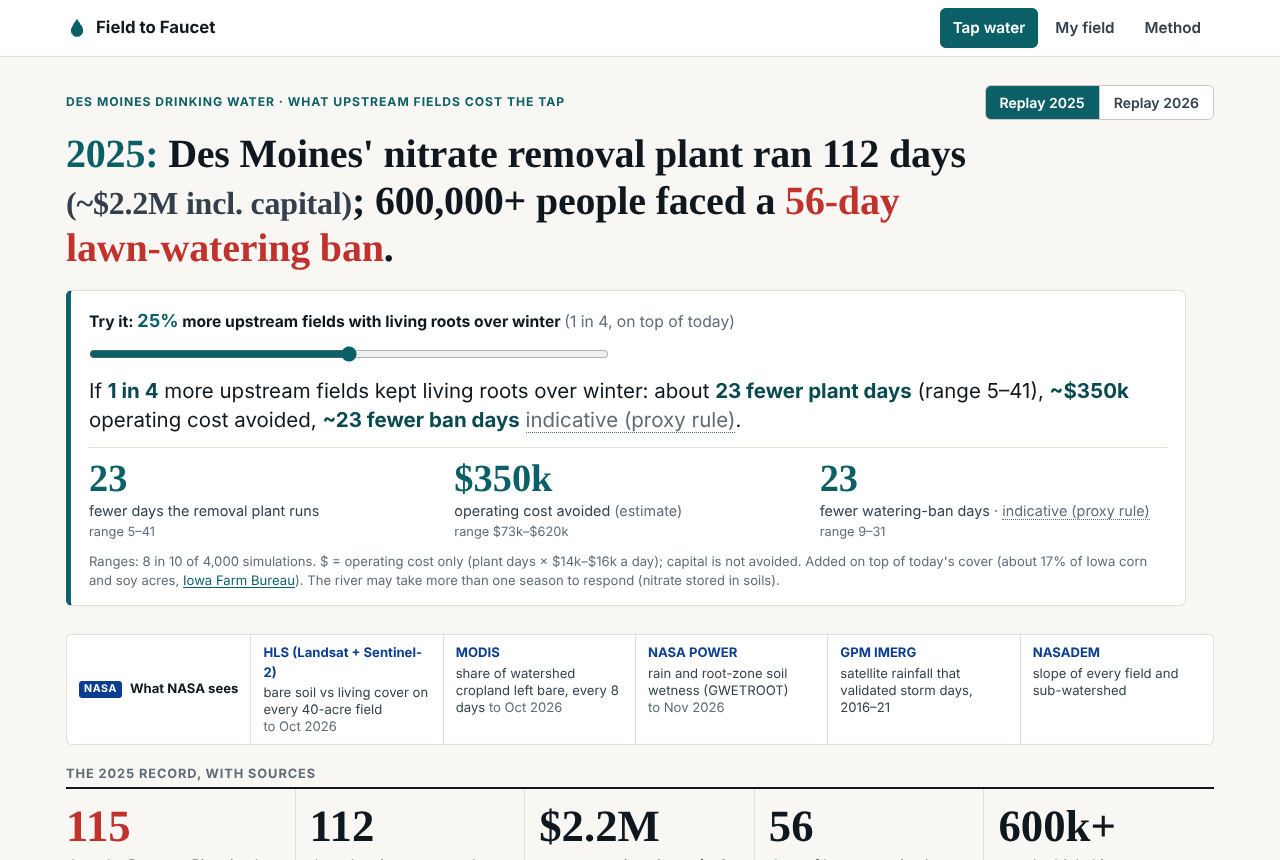
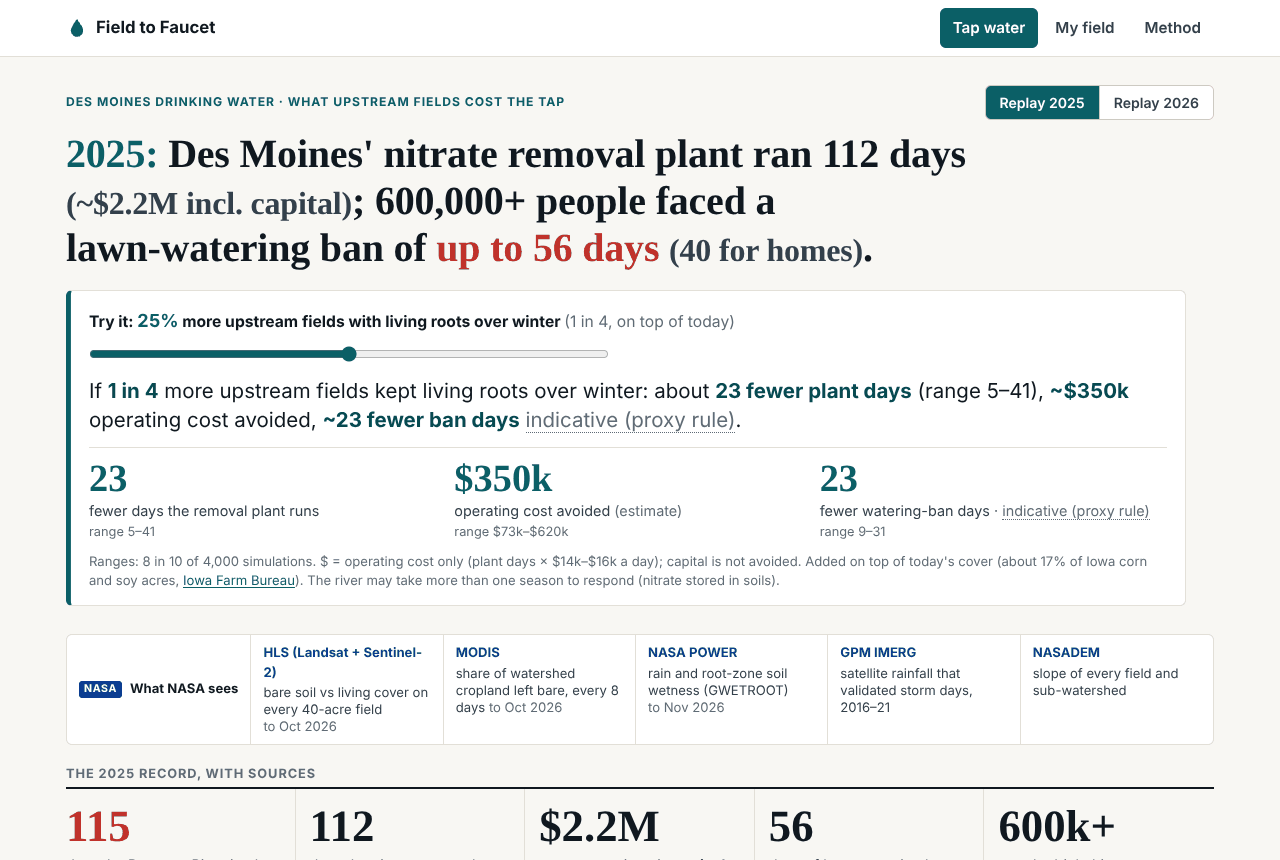
field-to-faucet: frontend integrated with real data (impact hero, replay 2025/2026, farmer mean-first cards, honest validation)
Claude-Session: https://claude.ai/code/session_01LVZuX6hd4Dk1J7r7Sr4Bx5

Changed region(s): [[0.0312, 0.2116, 0.7188, 0.3326]]

diff --git a/apps/field-to-faucet/web/js/city.js b/apps/field-to-faucet/web/js/city.js
@@ -145,9 +145,14 @@ function yearFacts(y = YEAR) {
   const est = !costF && isNum(plantDays) && cpd ? { lo: plantDays * cpd.lo, hi: plantDays * cpd.hi } : null;
   const banF = fact(`ban_days_${y}`);
   const banDays = banF?.value ?? (isNum(obs.ban_days) ? obs.ban_days : null);
+  // homes were released earlier than businesses/government: fact range lo (or observed.ban_days_homes)
+  const banHomes = isNum(obs.ban_days_homes) ? obs.ban_days_homes : isNum(banF?.range?.lo) ? banF.range.lo : null;
+  // "for businesses" only when the fact says the headline day count is the business/government one (2026);
+  // in 2025 the headline 56 days is the all-customer Stage III window (businesses: 48), so it reads "up to 56".
+  const banBiz = isNum(banDays) && new RegExp(`\\b${banDays} days for business`, "i").test(banF?.label || "");
   const people = fact("people_served");
   const peopleTxt = people ? `${fmtInt(people.value)}${/more than|over/i.test(`${people.label} ${people.quote || ""}`) ? "+" : ""}` : null;
-  return { yb, obs, th, plantF, plantDays, record, costF, omF, cpd, est, banF, banDays, people, peopleTxt };
+  return { yb, obs, th, plantF, plantDays, record, costF, omF, cpd, est, banF, banDays, banHomes, banBiz, people, peopleTxt };
 }
 
 function renderHero() {
@@ -157,7 +162,13 @@ function renderHero() {
   const costTxt = yf.costF ? `~${usd(yf.costF.value)} incl. capital` : yf.est ? `~${usdRange(yf.est.lo, yf.est.hi)} operating cost, estimate` : null;
   const parts = [];
   if (isNum(yf.plantDays)) parts.push(`Des Moines' nitrate removal plant ran ${yf.record ? "a record " : ""}<strong>${fmtInt(yf.plantDays)} days</strong>${costTxt ? ` <span class="hero-cost">(${costTxt})</span>` : ""}`);
-  if (isNum(yf.banDays)) parts.push(`<strong>${yf.peopleTxt || "central Iowa's"} people</strong> faced a <strong class="red">${fmtInt(yf.banDays)}-day lawn-watering ban</strong>`);
+  if (isNum(yf.banDays)) {
+    const who = `<strong>${yf.peopleTxt || "central Iowa's"} people</strong> faced a lawn&#8209;watering ban`;
+    const homes = isNum(yf.banHomes) && yf.banHomes < yf.banDays;
+    parts.push(!homes ? `${who} of <strong class="red">${fmtInt(yf.banDays)} days</strong>`
+      : yf.banBiz ? `${who} <span class="hero-cost">(<strong class="red">${fmtInt(yf.banHomes)} days for homes</strong>, ${fmtInt(yf.banDays)} for businesses)</span>`
+      : `${who} of <strong class="red">up to ${fmtInt(yf.banDays)} days</strong> <span class="hero-cost">(${fmtInt(yf.banHomes)} for homes)</span>`);
+  }
   h.innerHTML = `<span class="hero-year">${YEAR}:</span> ${parts.join("; ")}.`;
 }
 
@@ -218,12 +229,12 @@ function renderKpis() {
     const src = (th.sources || []).find((s) => /cost_per_day|om_cost/.test(s.id));
     costS = src ? link(src.url, "CIWW cost per day") : "";
   }
-  const banHomes = isNum(obs.ban_days_homes) ? ` (homes: ${fmtInt(obs.ban_days_homes)})` : "";
+  const banHomesTxt = isNum(yf.banHomes) && yf.banHomes < yf.banDays ? (yf.banBiz ? ` for businesses and government (homes: ${fmtInt(yf.banHomes)})` : `, all customers (homes: ${fmtInt(yf.banHomes)})`) : "";
   const tiles = [
     { v: fmtInt(obs.days_over10), red: true, l: `days the Raccoon River intake was above the 10 mg/L limit${isNum(measured) ? ` (of ${fmtInt(measured)} measured)` : ""}`, s: srcLine(link(nwisUrl(site), `USGS ${site}`), chipSc) },
     { v: fmtInt(yf.plantDays), l: `days the nitrate-removal plant ran${yf.record ? " — a record" : ""}`, s: srcLine(yf.plantF ? link(yf.plantF.url, yf.plantF.source || "source") : "", yf.plantF ? chipF : chipSc) },
     { v: costV, l: costL, s: srcLine(costS, chipF) },
-    { v: fmtInt(yf.banDays), l: `days of lawn-watering ban${banHomes}`, s: srcLine(yf.banF ? link(yf.banF.url, `${yf.banF.source || "source"}: ban dates`) : "", chipF) },
+    { v: fmtInt(yf.banDays), l: `days of lawn-watering ban${banHomesTxt}`, s: srcLine(yf.banF ? link(yf.banF.url, `${yf.banF.source || "source"}: ban dates`) : "", chipF) },
     { v: yf.people ? (yf.people.value >= 1e5 ? `${Math.round(yf.people.value / 1000)}k${yf.peopleTxt?.endsWith("+") ? "+" : ""}` : fmtInt(yf.people.value)) : "–", l: "people drink this water", s: srcLine(yf.people ? link(yf.people.url, yf.people.source || "source") : "", chipF) },
   ];
   document.getElementById("city-kpis").innerHTML = tiles.map((t) => `<div class="kpi"><div class="kpi-value ${t.red ? "red" : ""}">${t.v}</div><div class="kpi-label">${t.l}</div><div class="kpi-src">${t.s || ""}</div></div>`).join("");

diff --git a/apps/field-to-faucet/notes/frontend.md b/apps/field-to-faucet/notes/frontend.md
@@ -1,102 +1,73 @@
 # Module: frontend (web/)
 
-A static app in `web/`, with plain ES modules and no build step. Libraries are vendored and pinned in `web/vendor/`: MapLibre GL JS 4.7.1 and Chart.js 4.4.6. They came from the npm tarballs, with their LICENSE files kept and the `sourceMappingURL` comments removed. The page makes no CDN calls and loads no external tiles. Maps are drawn only from our own GeoJSON on a plain light background.
+A static app in `web/`, with plain ES modules and no build step. Libraries are vendored and pinned in `web/vendor/`: MapLibre GL JS 4.7.1 and Chart.js 4.4.6 (npm tarballs, LICENSE kept, `sourceMappingURL` removed). No CDN calls, no external tiles: maps are drawn only from our own GeoJSON.
 
 ## Run
 ```
 cd apps/field-to-faucet/web && python3 -m http.server 8731      # open http://localhost:8731/
-python3 -I mock/_make_mock.py                                   # (re)write web/mock/* (deterministic, seed 20261114)
-node qa/run_qa.cjs http://localhost:8731/                       # Playwright QA + screenshots into web/qa/
+node qa/run_qa.cjs http://localhost:8731/ [--shots-dir=DIR]     # Playwright QA + screenshots into web/qa/
 ```
-Routes: `#city` (landing), `#farmer`, `#farmer/<field_id>` (deep link to a field), `#method`.
+Routes: `#city` (landing), `#farmer`, `#farmer/<field_id>` (deep link), `#method`.
+
+## Status: all data real
+Every file in `web/data/` is real (written by `model/m08_export_web.py`). The mock fallback (`web/mock/`) is still in the loader but unused: QA asserts that no MOCK banner and no MOCK chip is visible on any view.
 
 ## Structure
 | File | Role |
 |---|---|
-| `index.html` | Shell: mock banner, tab bar, the three views, footer |
-| `css/app.css` | Tokens: ink/ground, one accent (deep teal `#0b5f66`), nitrate red `#c0322b`, sequential warm leak ramp `--leak-0..5`. Breakpoints at 960 and 560 px |
-| `js/main.js` | Loads data, renders the views, hash router. Maps are created lazily when their view first shows |
-| `js/data.js` | Loader, mock fallback, banner, provenance table, `facts.json` normaliser, field-detail access (single file or split) |
-| `js/city.js` | KPI strip, 2025 replay (slider, deltas, chart), river chart, hotspot map and list, 14-day outlook |
-| `js/farmer.js` | Field map, field facts, leak calendar and its plain-language sentence, NDVI, priorities, strategy cards and ranking |
-| `js/method.js` | Validation tables, sources (NASA tag), caveats, file provenance |
-| `js/charts.js` | Chart.js on a linear ms time axis (no date adapter). Draws split shading, the EPA-limit line, a crosshair, and an 8-in-10 band in the tooltip. Nulls are drawn as gaps (`spanGaps:false`) |
-| `js/map.js` | Blank-style MapLibre map, HTML-marker labels (no glyph server), context layers, quantile `step` colouring, ramp legend |
-| `js/util.js` | Formatting, natural frequencies, small DOM helpers |
-| `mock/_make_mock.py` | Writes every mock file and `mock/_manifest.json` |
-| `qa/run_qa.cjs` | Playwright QA at 1280 and 375 px |
+| `index.html` | Shell: mock banner, tab bar, three views, footer |
+| `css/app.css` | Tokens: ink/ground, one accent (teal `#0b5f66`), nitrate red `#c0322b`, warm sequential leak ramp `--leak-0..5`, blue sequential driver ramp. Breakpoints 960 / 560 px |
+| `js/main.js` | Creates the store, renders views, hash router; re-renders banner + provenance after each lazy group loads |
+| `js/data.js` | Grouped/lazy loader, mock fallback, banner, provenance, `factsMap` (resolves `aliases`), `getFieldDetail`, `nasaStrip` |
+| `js/city.js` | Impact hero + year switch, KPI strip, replay chart, river chart + honest line, hotspot map, outlook |
+| `js/farmer.js` | Field map, field facts, leak calendar, NDVI, priorities, strategy cards and ranking |
+| `js/method.js` | Honest miss, validation tables, outlook skill, proxy-rule test, sources, caveats, provenance |
+| `js/charts.js` | Chart.js on a linear ms time axis; split shading, threshold line, crosshair, band tooltip (`bandLabel`). Nulls are gaps |
+| `js/map.js` | Blank-style MapLibre, HTML-marker labels, quantile `step` colouring, ramp legend |
+| `js/util.js` | Formatting (`meanBand`, `shareAsFreq`, `fmtLbAc`, `linkify`), natural frequencies, segmented control |
 
-## How the data maps to the UI
-- **KPI strip** (replay year `scenarios.replay.year`, 2025):
-  - days above 10: `scenarios.by_year[Y].observed.days_over10`, linked to the USGS site page.
-  - plant days: `observed.plant_days`, or else `facts.plant_days_<Y>`.
-  - $ cost: `facts.plant_cost_<Y>_usd`, or else `plant_days × thresholds.cost_per_plant_day{lo,hi}`, shown as a range.
-  - ban days: `observed.ban_days`, or else `facts.ban_days_<Y>`.
-  - people served: `facts.people_served`.
-  - Each tile links its source (`facts[*].url` / `thresholds.source`).
-- **Replay**:
-  - The slider steps through `scenarios.adoption_levels` and opens at 25%.
-  - The chart shows `replay.obs`, `replay.base_p50` and `replay.by_level[x]`. The area between the base and scenario lines is shaded as "nitrate kept out of the river".
-  - Deltas use `levels[x].avoided.<metric>{p50,lo,hi}` if the exporter adds it. Otherwise they are `levels[0].p50 − levels[x].{p50,hi,lo}`, clamped at 0.
-  - Metrics: days_over10, plant_days, cost_usd, ban_days, plus lbN_kept as a sentence.
-  - Natural-frequency sentence: observed days minus the delta, over measured days, e.g. "about 1 day in 7".
-- **River chart**: `river_series.sites[site].{dates,obs,p10,p50,p90}`.
-  - Toggles: site (Raccoon / Des Moines) and range (all / test 2023+ / 2025).
-  - `split` drives the shaded "Training / Out-of-time test / Live" periods. `mcl` draws the red dashed line.
-- **Hotspot map**: `huc12.geojson`, coloured by `share_of_basin_leak` or `leak_index` in 6 equal-count classes.
-  - Popup: name, HUC-12, basin, row_crop_share, poorly_drained_share, bare_days_wet, share_of_basin_leak, rank "of N in basin".
-  - The dashed outline is `in_focus`.
-  - The side list shows the Raccoon top 6 by `rank`, and their area share against their leak share.
-  - Context layers: `basins`, `rivers` (width by `order`), `counties` (optional), `sites`, and `places`. Town labels appear only at zoom ≥ 7.8. `kind: "intake"` places are skipped because sites draw them.
-- **Outlook**: the fan is `outlook.{dates,p10,p50,p90}`, anchored at `last_obs` and preceded by 30 days of measured values from `river_series`.
-  - `prob_over10` is a 14-cell strip. The headline is the peak probability, phrased as "N in 10".
-  - `drivers.*_pctile` become plain-language comparisons with past years.
-  - `text` is shown verbatim.
-- **Farmer map**: `fields.geojson` squares, coloured by `leak_pctile` in fifths. The focus HUC-12 outlines come from the HUC-12s the fields fall in.
-  - "Pick a sample field" cycles through 5 fields from the top tenth by leak percentile, preferring poorly drained ones.
-- **Field panel**: `field_detail[id]`, loaded from a single file or from `field_detail/<huc12>.json`.
-  - Facts: `leak.lbN_ac_yr{p10,p50,p90}`, drainage, slope, crop_2025, crop sequence chips, and `cover_years`.
-  - Leak calendar: the rows are `bare_frac`, `rain_mm`, `storm_days`, `wetness`, and `leak_risk`, each shaded within its own row.
-  - The riskiest 3-month window (by summed `leak_risk`) is outlined, and the sentence is built from it: average bare share, the window's share of storm days, and whether peak wetness falls inside it.
-  - NDVI comes from `ndvi_recent`, with a 0.30 living-cover line.
-- **Strategy cards**: text from `strategies.json`, field numbers from `field_detail.strategies[S].{lbN_kept_ac,fert_value_usd_ac}`.
-  - If the field numbers are missing, lb kept is estimated as `n_loss_reduction × field leak`, and the card says so.
-  - Each card shows why, evidence (trials and `satellite_evidence`), lb N kept with range and an interval bar on a shared axis, fertilizer value, cost, yield risk, soil health, gaps, local-review risks, and who pays (with links).
-- **Ranking** (shown under "How we rank"): each goal is min-max scaled to 0–1 across S0..S3. Score = Σ(weight × goal score) / Σ weights, with weights 0–3 from the sliders (default 2, 2, 1, 1). The goals:
-  - nitrogen kept: lbN_kept p50.
-  - yield safety: `yield_risk` level, low 1 / medium 0.5 / high 0.
-  - soil: `soil_score`, or else the count of `soil_health` items.
-  - low net cost: −(cost midpoint − fertilizer value p50).
-- **Method**: `validation.json`, `meta.sources` (NASA badge), `meta.caveats`, and a per-file provenance table.
+## Loading (first-view weight)
+| Group | Files | When |
+|---|---|---|
+| core | meta, facts, scenarios, river_series, validation, outlook, sites (~0.83 MB) | before first render |
+| map | huc12, basins, rivers, places, counties (~0.6 MB) | right after first render (city map + hotspots) |
+| farm | fields.geojson, strategies (~0.68 MB) | only when the farmer view opens (tab, deep link or sample button) |
+| detail | field_index.json (42 KB) + field_detail/<huc12>.json (0.2–0.8 MB) | on first field click; HUC-12 from the index (fallback: the field's `huc12` prop) |
 
-## Mock fallback
-1. `data.js` reads the `python -m http.server` directory listing of `data/` and `mock/_manifest.json`, so a missing file is never requested and the console shows no 404s. On `*.github.io` there is no listing, so each `data/` file is requested directly.
-2. Each contract file loads from `data/<file>`. If it is missing, `mock/<file>` is used and the file is recorded as `mock`. A `data/` file with a top-level `"mock": true` also counts as mock.
-3. **Partial case:** when the real `huc12.geojson` has outlines but no `leak_index` (true today), the scores are taken from `mock/huc12.geojson` by huc12 id. That file is reported as "huc12.geojson (leak scores)".
-4. `field_detail` must come from the same place as `fields`. Real fields with no real detail show "not exported yet"; the panel never shows mock detail for real fields.
-5. A red sticky **"MOCK DATA — not real"** banner names every mock file. Every section that draws mock values also carries a small red `MOCK` chip. Every mock text string starts with "MOCK".
+First view (`#city`, network idle, uncompressed from `http.server`): 28 requests, ~2.96 MB, of which ~1.0 MB is vendored JS. No farmer data is fetched on the city view (QA asserts it).
 
-## Still mock (as of this build)
-`meta.json`, `river_series.json`, `validation.json`, `scenarios.json`, `outlook.json`, `fields.geojson`, `field_detail` (split, 9 HUC-12s, 1,338 fields), `strategies.json`, `facts.json`, and the HUC-12 leak scores.
+## City view (impact first)
+- **Hero h1** (replay year Y, all numbers from facts.json via aliases, never hard-coded):
+  `Y: Des Moines' nitrate removal plant ran [a record] N days (cost); 600,000+ people faced a lawn-watering ban …`
+  - cost: `plant_cost_Y_usd` → "~$2.2M incl. capital"; no fact (2026) → `plant days × thresholds.cost_per_plant_day{lo,hi}` → "~$2.8–3.1M operating cost, estimate".
+  - "a record" when plant days > `plant_days_record_prior`.
+  - ban: homes vs all from `observed.ban_days_homes` (or fact `range.lo`). If the fact label says the headline count is the business one (2026) → "(23 days for homes, 42 for businesses)"; otherwise (2025, all-customer Stage III window) → "of up to 56 days (40 for homes)".
+  - "600,000+" when the people fact says "more than".
+- **Impact card**: slider (synced with the replay slider) and the sentence "If 1 in 4 more upstream fields kept living roots over winter: about N fewer plant days (range a–b), ~$X operating cost avoided, ~M fewer ban days indicative (proxy rule)". From `levels[x].avoided.{plant_days,cost_usd,ban_days}` (p50, lo, hi). $ is labelled "operating cost avoided (estimate)". The ban label is a hover/focus/tap tooltip with `thresholds.ban_rule` and the 2026 test (`calibration.ban.test_2026`: 40 proxy vs 42 real days). Fine print: n_draws, $/day range, "capital not avoided", today's ~17% cover (fact `iowa_cover_share_pct`), legacy-N lag.
+- **Year switch**: `Replay 2025 | Replay 2026` from `scenarios.replays` ∩ `by_year`; drives hero, KPIs, replay and the river "year" range.
+- **What NASA sees** strip (also on Farmer and Method): HLS, MODIS, NASA POWER (GWETROOT), GPM IMERG, NASADEM, matched by name in `meta.sources`, with links and `data_through`.
+- **KPI strip** ("The Y record, with sources"): days > 10 (USGS link), plant days (fact link), cost ("incl. capital" with O&M/capital split; 2026 "estimate"), ban days (links the `ban_days_Y` fact), people served.
+- **Replay chart**: "Measured, today's fields" = `replays[Y].obs` (base_kind observed); "With X% more living cover" = `by_level[x]`; teal fill between = "nitrate kept out of the river"; optional checkbox shows the scenario band `by_level_lo/hi`; 10 mg/L line. If a future export has `base_kind` ≠ observed, a dashed model baseline is added. Side tiles: days > 10 avoided (Raccoon, Des Moines), t N kept, lb N kept sentence.
+- **River chart**: display model per site from `river_series.sites[s].model.model` → `display_model` (river_series or validation); legend "Model v2 (+ drought carry-over), median". Above it the honest line, built from validation numbers (mean test NSE of v1 `gbm`, 2025 `level_ratio_obs_over_model` min–max): "The weather-and-cover model explains normal years (test NSE ~0.6) but under-predicted 2025-26 by about 1.7–2.1× — likely nitrate left over after the 2020-23 drought (a hypothesis). That's why impact numbers replay the measured river with relative changes." Caption names USGS + NASA POWER/MODIS/HLS + CDL, and says v2 is post-hoc.
+- **Outlook**: gauge toggle from `outlook.sites`. Headline "Already above the limit (…). Expect about N of the next 14 days above 10 mg/L" (`expected_days_over10` or Σ prob). Skill line: "No weather forecast used"; 7-day error skill vs persistence; Brier skill at 14 days (< 5% → "no probability skill"). Probability cells beyond the last lead with Brier skill ≥ 5% (from `validation.outlook_skill`) are faded.
+- **Hotspot map**: unchanged; popup adds `lbN_ac_yr` and uses `n_in_basin`.
 
-Real today: `basins.geojson`, `huc12.geojson` (outlines), `sites.json`, `rivers.geojson`, `places.json`, `counties.geojson`.
+## Farmer view
+- Headline leak = `leak.lbN_ac_yr.mean` (long-run average), "p10–p90 lb in 8 of 10 years"; red block "In a wet year like 2016: … lb N/acre" from `leak.wet_year_2016`; `why_field` shown.
+- Leak calendar rows: bare (HLS), rain, big-storm days, soil wetness, leak risk, **Leak, lb N/acre** (`leak_lb_ac`). Months with `interp_only` are hatched grey in the bare row and the header ("no clear satellite view"). The sentence also says what share of the yearly loss falls in the riskiest window.
+- Cards: headline `lbN_kept_ac.mean`, bar p10–p90, "In a wet year like 2016" (`wet_year_2016.lbN_kept_ac`), fertilizer value mean "(upper bound)" + `fert_value_note`, cost with basis and source link, `S1.note` when present. Evidence/who-pays/gaps text is linkified; every item links its URL.
+- **Ranking fix**: a null `cost_usd_ac.lo/hi` is UNKNOWN: excluded from the min-max normalisation and from that option's weighted sum (score = Σ known w·s ÷ Σ known w). The card shows "cost not verified" and "Ranked without: low net cost (unknown)". The formula is shown under the sliders and in "How we rank".
+- Agronomist note kept (hero + strategies disclaimer).
 
-Mock focus area: 9 Raccoon HUC-12s around Jefferson/Scranton (071000061401-05, 071000061004, 071000061301, 071000070101, 071000070103). The real focus area comes from the fields module.
+## Method view
+Honest miss block (same line + `crisis_2025.text`), `validation.lines` (minus the ones already quoted), per-site test table (v1, v2 "shown in charts", reservoir, climatology, persistence; days > 10 measured/called), "Our models in every period" (train row = leave-one-year-out CV, v2 test/live marked post-hoc), blind 2013 check, outlook skill table (1/3/7/10/14 days), plant/ban proxy fit-2025/test-2026 table, sources, caveats, provenance.
 
 ## Contract interpretations (exporters: please match or tell frontend)
-- `facts.json` is not in the web contract, but the KPI strip needs it. The app reads `web/data/facts.json` as `{facts:{<key>:{value,unit,label,source,url,verified}}}` (a list of `{id,...}` also works). Keys used: `people_served`, `plant_days_<Y>`, `plant_cost_<Y>_usd`, `ban_days_<Y>`, `fert_price_usd_lb_N`.
-- `scenarios.levels[].<metric>` is read as the absolute modelled value at that adoption level. Ranges of differences cannot be derived exactly from marginal ranges, so please add `avoided:{days_over10:{p50,lo,hi}, plant_days, cost_usd, ban_days, lbN_kept}` per level; the app prefers it when present.
-- `scenarios.by_year[Y].observed` has no `cost_usd`; the cost comes from facts, or from plant days × cost per plant day.
-- `strategies[].yield_risk`: a string that starts with Low/Medium/Moderate/High, or `{level, text}`.
-- Optional extra: `soil_score` (0–1) for ranking.
-- `validation.json`: `{splits, sites:{<site>:{name, by_split:{test:{gbm:{NSE,KGE,RMSE,MAE,coverage80,CSI,...}, climatology:{...}, persistence_7d:{...}}}}}, lines:[...], crisis_2025:{text}}`. The raw `metrics.json` shape `{<site>:{<split>:{<model>:{...}}}}` also renders.
-- `places.json`: a top-level array. `kind` (`city` / `town` / `intake`) is used for label styling and zoom gating.
-- `outlook.drivers.*_pctile` is read as the percentile against past years for the same time of year (0–100).
-- `field_detail.calendar.wetness` is read on a 0–1 scale. `leak_risk` is 0–1.
+- `facts.json` `{facts:{id:{…}}, aliases:{key:id}}`; keys used: people_served, plant_days_Y, plant_cost_Y_usd, plant_om_cost_Y_usd, ban_days_Y (+ `range.lo` = homes), plant_days_record_prior, iowa_cover_share_pct, fert_price_usd_lb_N.
+- `scenarios.replays{Y}` preferred over `replay`; `thresholds.cost_per_plant_day` is `{lo,hi}`.
+- The hero's "businesses" wording depends on the ban fact label containing "<N> days for business"; a structured `homes_days` / `business_days` field would be sturdier.
 
 ## QA (`qa/run_qa.cjs`)
-The script runs at 1280×860 and 375×760. It loads City, moves the replay slider (and checks the deltas change), toggles the river site and range, and opens a hotspot popup. On Farmer it picks a sample field (checks ≥ 4 cards), changes priorities (checks the top card changes), clicks the map, and checks the hash deep link. It also loads Method.
+1280×860 and 375×760, `--use-angle=swiftshader`, deviceScaleFactor 1. City: hero/impact text checks ("incl. capital", "estimate" for 2026), ban tile link, hero↔replay slider sync, band toggle, year switch 2025→2026→2025, river toggles, hotspot popup. Farmer (tab click): sample field, ≥ 3 cards, "in 8 of 10 years", wet-year block, "cost not verified", lb row, agronomist note, priorities re-rank, map click, deep link. Method (tab click): honest line, "no weather forecast". Asserts no console errors/warnings, no failed/≥ 400 requests, no MOCK banner/chips, no horizontal scroll, no farmer data on the city view; prints first-view transfer. Result: **QA OK**.
 
-It asserts no console errors or warnings, no failed or ≥ 400 requests, and no horizontal scroll. Result: **QA OK**.
-
-The default headless GL backend in this container logs "GL Driver Message … GPU stall due to ReadPixels" while compositing the WebGL canvas. That message comes from the browser, not from page code. The script launches with `--use-angle=swiftshader`, which removes it, so the check stays strict. Screenshots are saved to `web/qa/*.png` and quantised to 128 colours to keep them small.
+Screenshots (quantised to 128 colours): `qa/city-hero-1280.png`, `qa/city-full-1280.png`, `qa/farmer-panel-1280.png`, `qa/method-1280.png`, `qa/city-375.png`, `qa/farmer-375.png`. `--shots-dir` adds section shots (replay, river, map, outlook, 2026 hero) elsewhere.
